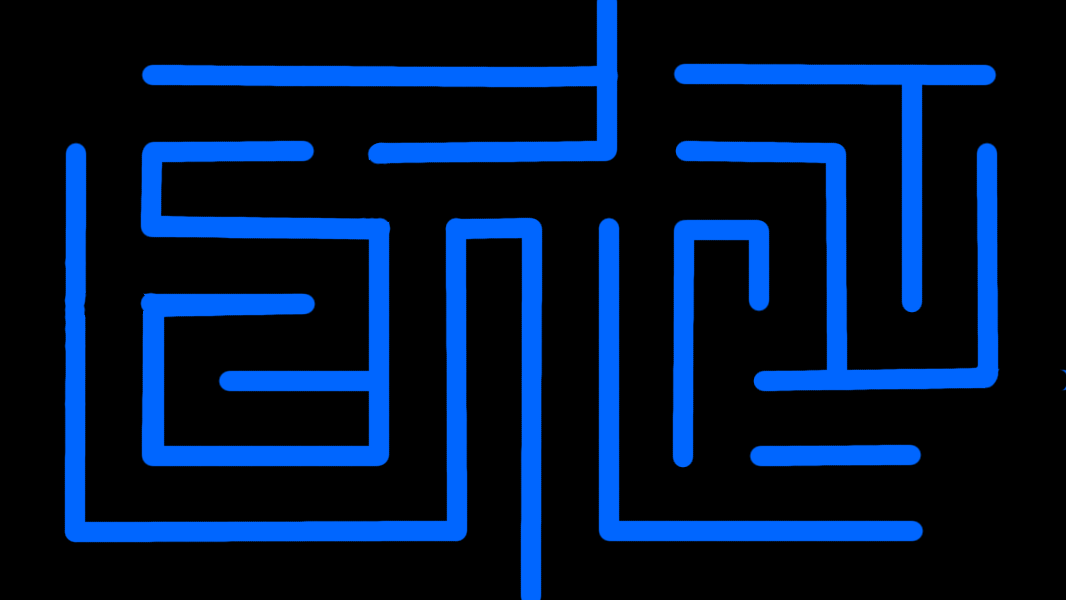
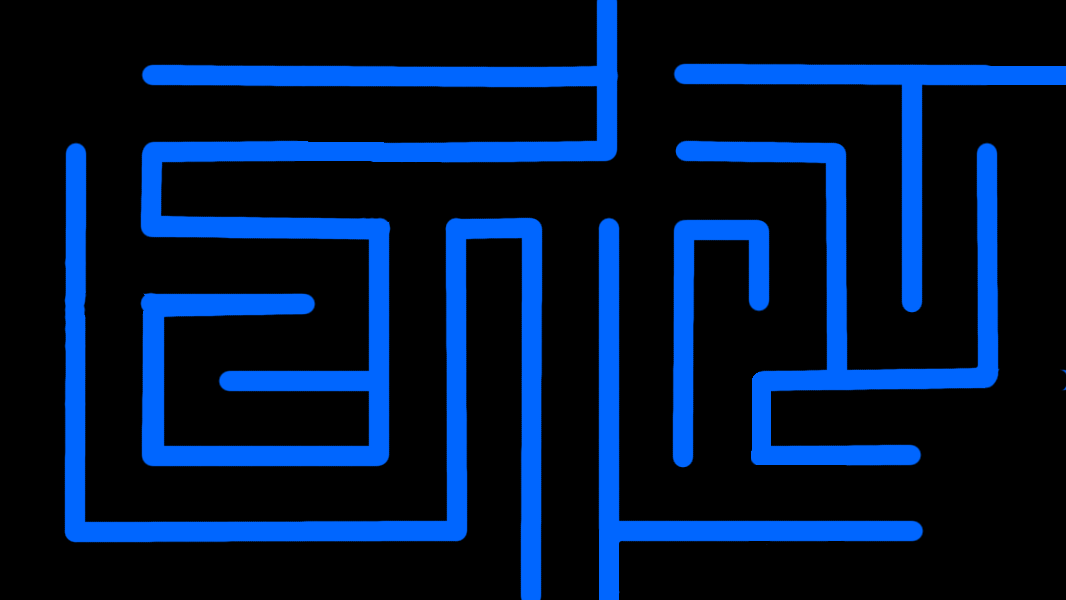
Done..!

diff --git a/Scripts/scenes/scene_StageOne.js b/Scripts/scenes/scene_StageOne.js
@@ -17,6 +17,9 @@ var scenes;
         __extends(StageOne, _super);
         function StageOne(assetManager) {
             var _this = _super.call(this, assetManager) || this;
+            _this.backgroundMusic = createjs.Sound.play("play_music");
+            _this.backgroundMusic.loop = -1; // Looping forever
+            _this.backgroundMusic.volume = 0.3;
             _this.Start();
             return _this;
         }
@@ -28,13 +31,13 @@ var scenes;
         };
         StageOne.prototype.Start = function () {
             //config.Gravity.gravityFactor = -1;
-            objects.Game.isDebug = true;
+            objects.Game.isDebug = false;
             this.isPaused = false;
             this.gameSceneryStaticObjects = new Array();
             this.gameSceneryDynamicObjects = new Array();
             this.enemies = new Array();
             objects.Game.keyboard = new managers.Keyboard();
-            var ghost = new objects.Enemy(this.assetManager, "ghost", 980, 590);
+            var ghost = new objects.Enemy(this.assetManager, "ghost", 980, 550);
             ghost.y = ghost.y - ghost.height;
             this.enemies[0] = ghost;
             console.log("GAME SCENE(S)...");
@@ -47,7 +50,7 @@ var scenes;
             this.txtButton.x = 910;
             this.txtButton.y = 565;
             this.player = new objects.Player(this.assetManager);
-            this.player.boxCollider = new objects.BoxCollider(0, 0, this.player.x, this.player.y, this.player.width - 10, this.player.height - 10);
+            this.player.boxCollider = new objects.BoxCollider(0, 0, this.player.x, this.player.y, this.player.width - 7, this.player.height - 10);
             this.Main();
         };
         StageOne.prototype.CreateFunctionCheck = function (gameObject) {
@@ -100,7 +103,7 @@ var scenes;
                 enemy.Update();
                 _this.player.isDead = managers.Collision.CheckDistance(_this.player, enemy);
                 if (_this.player.isDead) {
-                    //   this.backgroundMusic.stop();
+                    _this.backgroundMusic.stop();
                     objects.Game.currentScene = config.Scene.FINISH;
                 }
             });
@@ -118,28 +121,11 @@ var scenes;
             this.timeRemaining.fn_TimerTicker(objects.Game.stageTimer);
             //this.addChild(this.background);
             this.addChild(this.background_main);
-            //   this.addChild(this.timeRemaining);
-            //   this.addChild(this.titleShadow);
-            //   this.addChild(this.title);
-            //   this.addChild(this.backButton);
-            //   this.addChild(this.txtButton);
             this.CreateScenery();
             this.addChild(this.player);
             this.enemies.forEach(function (ghost) {
                 _this.addChild(ghost);
             });
-            //  this.addChild(this.background_shadow);
-            //create the empties gameobjects to be the stage boundaries
-            //   this.backButton.on("click", this.fn_ButtonClick);
-            //   var callback = () : void => {
-            //       this.removeChild(this.title);
-            //       this.removeChild(this.titleShadow);
-            //   }
-            //    this.StartCountdown(3, callback);
-            //  this.addChild(this.pauseButton);
-            //   this.addChild(this.pauseTxtButton);
-            //    this.backButton.on("click", this.fn_ButtonClick);
-            //   this.pauseButton.on("click", ()=>{this.isPaused = !this.isPaused; this.fn_pauseButtonClick;});//pause
         };
         StageOne.prototype.CreateScenery = function () {
             //Boundary
@@ -194,7 +180,7 @@ var scenes;
             this.gameSceneryStaticObjects[8] = wall_11;
             wall_11.x = 681;
             wall_11.y = 65;
-            var wall_21 = new objects.EmptyGameObject(this.assetManager, "wall_21", 160, 21);
+            var wall_21 = new objects.EmptyGameObject(this.assetManager, "wall_21", 260, 21);
             this.addChild(wall_21);
             this.gameSceneryStaticObjects[6] = wall_21;
             wall_21.x = 145;
@@ -290,11 +276,11 @@ var scenes;
             this.gameSceneryStaticObjects[24] = stand_5;
             stand_5.x = 520;
             stand_5.y = 220;
-            var stand_6 = new objects.EmptyGameObject(this.assetManager, "stand_6", 21, 320);
+            var stand_6 = new objects.EmptyGameObject(this.assetManager, "stand_6", 18, 380);
             this.addChild(stand_6);
             this.gameSceneryStaticObjects[25] = stand_6;
             stand_6.x = 600;
-            stand_6.y = 220;
+            stand_6.y = 221;
             var stand_7 = new objects.EmptyGameObject(this.assetManager, "stand_7", 21, 240);
             this.addChild(stand_7);
             this.gameSceneryStaticObjects[26] = stand_7;

diff --git a/Scripts/scenes/scene_StageOne.ts b/Scripts/scenes/scene_StageOne.ts
@@ -11,6 +11,7 @@ module scenes
         private pauseButton: objects.Button;
         private txtButton: objects.Label;
 
+        private backgroundMusic:createjs.AbstractSoundInstance;
         private enemies:objects.Enemy[];        
         
         //private ghost: objects.Enemy;
@@ -30,6 +31,9 @@ module scenes
         constructor(assetManager: createjs.LoadQueue)
         {
             super(assetManager);
+            this.backgroundMusic = createjs.Sound.play("play_music");
+            this.backgroundMusic.loop = -1; // Looping forever
+            this.backgroundMusic.volume = 0.3;
             this.Start();
         }
 
@@ -48,7 +52,7 @@ module scenes
             
             //config.Gravity.gravityFactor = -1;
             
-            objects.Game.isDebug = true;
+            objects.Game.isDebug = false;
             this.isPaused = false;
             this.gameSceneryStaticObjects = new Array<objects.EmptyGameObject>();
             this.gameSceneryDynamicObjects = new Array<objects.DynamicObject>();
@@ -56,7 +60,7 @@ module scenes
             this.enemies = new Array<objects.Enemy>();
 
             objects.Game.keyboard = new managers.Keyboard();
-            var ghost = new objects.Enemy(this.assetManager, "ghost", 980, 590);
+            var ghost = new objects.Enemy(this.assetManager, "ghost", 980, 550);
             ghost.y = ghost.y - ghost.height;
             this.enemies[0] = ghost;
 
@@ -77,7 +81,7 @@ module scenes
             this.player = new objects.Player(this.assetManager);            
             this.player.boxCollider = new objects.BoxCollider(0, 0, this.player.x, 
                 this.player.y, 
-                this.player.width-10, this.player.height-10);
+                this.player.width-7, this.player.height-10);
                 
             this.Main();
 
@@ -143,7 +147,7 @@ module scenes
                 this.player.isDead = managers.Collision.CheckDistance(this.player, enemy);
 
                 if(this.player.isDead) {
-                 //   this.backgroundMusic.stop();
+                    this.backgroundMusic.stop();
                     objects.Game.currentScene = config.Scene.FINISH;
                 }
             });   
@@ -166,13 +170,7 @@ module scenes
             //this.addChild(this.background);
             this.addChild(this.background_main);
             
-         //   this.addChild(this.timeRemaining);
-            
-         //   this.addChild(this.titleShadow);
-         //   this.addChild(this.title);
-            
-         //   this.addChild(this.backButton);
-         //   this.addChild(this.txtButton);
+       
             
             this.CreateScenery();
             this.addChild(this.player);
@@ -180,23 +178,6 @@ module scenes
                this.addChild(ghost);  
            });
            
-          //  this.addChild(this.background_shadow);
-            
-            //create the empties gameobjects to be the stage boundaries
-
-         //   this.backButton.on("click", this.fn_ButtonClick);
-
-         //   var callback = () : void => {
-         //       this.removeChild(this.title);
-         //       this.removeChild(this.titleShadow);
-         //   }
-        //    this.StartCountdown(3, callback);
-
-          //  this.addChild(this.pauseButton);
-         //   this.addChild(this.pauseTxtButton);
-            
-        //    this.backButton.on("click", this.fn_ButtonClick);
-         //   this.pauseButton.on("click", ()=>{this.isPaused = !this.isPaused; this.fn_pauseButtonClick;});//pause
         
         }
         
@@ -273,7 +254,7 @@ module scenes
             wall_11.x = 681;
             wall_11.y = 65;
 
-            var wall_21 = new objects.EmptyGameObject(this.assetManager, "wall_21", 160, 21); 
+            var wall_21 = new objects.EmptyGameObject(this.assetManager, "wall_21", 260, 21); 
             this.addChild(wall_21);
             this.gameSceneryStaticObjects[6] = wall_21;
             wall_21.x = 145;
@@ -388,11 +369,11 @@ module scenes
             stand_5.x = 520;
             stand_5.y = 220;
 
-            var stand_6 = new objects.EmptyGameObject(this.assetManager, "stand_6", 21,320); 
+            var stand_6 = new objects.EmptyGameObject(this.assetManager, "stand_6", 18,380); 
             this.addChild(stand_6);
             this.gameSceneryStaticObjects[25] = stand_6;
             stand_6.x = 600;
-            stand_6.y = 220;
+            stand_6.y = 221;
 
             var stand_7 = new objects.EmptyGameObject(this.assetManager, "stand_7", 21,240); 
             this.addChild(stand_7);

diff --git a/Scripts/scenes/endScene.ts b/Scripts/scenes/endScene.ts
@@ -11,11 +11,17 @@ module scenes
         private txtButton: objects.Label;
         private buttonBlack: objects.Image;
         private blackCover: objects.Image;
+
+        private backgroundMusic:createjs.AbstractSoundInstance;
+        private endMusic:createjs.AbstractSoundInstance;
        
 
         constructor(assetManager: createjs.LoadQueue)
         {
             super(assetManager);
+           // this.backgroundMusic = createjs.Sound.play("play_music");
+            this.endMusic = createjs.Sound.play("explode");
+            this.endMusic.volume = 0.3;
             this.Start();
         }
 
@@ -37,7 +43,7 @@ module scenes
             this.backButton.scaleX = 0.75;
           //  this.buttonBlack = new objects.Image(this.assetManager, "buttonBlack",1066 * 0.5, 600 * 0.9, true);  
           //  this.buttonBlack.scaleX = 1.2;
-            this.label = new objects.Label("Game Over", "bold 96px", "Crackman", "#00adad", 1066 * 0.5, 600 * 0.48, true);
+            this.label = new objects.Label("WiNNer..!", "bold 96px", "Crackman", "#00adad", 1066 * 0.5, 600 * 0.48, true);
             this.label2 = new objects.Label("After eating Pac-Dots, Pacman realised what heaven is...", "28px", "Crackman", "#ffff00", 1066 * 0.5, 600 * 0.6, true);
             this.label3 = new objects.Label("Then he went in search for more pac-dots...", "28px", "Crackman", "#dfdf00", 1066 * 0.5, 600 * 0.65, true);
             this.label4 = new objects.Label("and he met Toru Iwatani of Namco and Rest is HISTORY", "28px", "Crackman", "#bfbf00", 1066 * 0.5, 600 * 0.7, true);

diff --git a/Scripts/scenes/endScene.js b/Scripts/scenes/endScene.js
@@ -17,6 +17,9 @@ var scenes;
         __extends(EndScene, _super);
         function EndScene(assetManager) {
             var _this = _super.call(this, assetManager) || this;
+            // this.backgroundMusic = createjs.Sound.play("play_music");
+            _this.endMusic = createjs.Sound.play("explode");
+            _this.endMusic.volume = 0.3;
             _this.Start();
             return _this;
         }
@@ -34,7 +37,7 @@ var scenes;
             this.backButton.scaleX = 0.75;
             //  this.buttonBlack = new objects.Image(this.assetManager, "buttonBlack",1066 * 0.5, 600 * 0.9, true);  
             //  this.buttonBlack.scaleX = 1.2;
-            this.label = new objects.Label("Game Over", "bold 96px", "Crackman", "#00adad", 1066 * 0.5, 600 * 0.48, true);
+            this.label = new objects.Label("WiNNer..!", "bold 96px", "Crackman", "#00adad", 1066 * 0.5, 600 * 0.48, true);
             this.label2 = new objects.Label("After eating Pac-Dots, Pacman realised what heaven is...", "28px", "Crackman", "#ffff00", 1066 * 0.5, 600 * 0.6, true);
             this.label3 = new objects.Label("Then he went in search for more pac-dots...", "28px", "Crackman", "#dfdf00", 1066 * 0.5, 600 * 0.65, true);
             this.label4 = new objects.Label("and he met Toru Iwatani of Namco and Rest is HISTORY", "28px", "Crackman", "#bfbf00", 1066 * 0.5, 600 * 0.7, true);

diff --git a/Scripts/core/game.js b/Scripts/core/game.js
@@ -27,7 +27,9 @@
         { id: "empty", src: "../Assets/Background/empty.png" },
         { id: "crate", src: "../Assets/Sprites/Objects/crate.png" },
         { id: "opened_desk", src: "../Assets/Sprites/Objects/open_desk.png" },
-        { id: "closed_desk", src: "../Assets/Sprites/Objects/closed_desk.png" }
+        { id: "closed_desk", src: "../Assets/Sprites/Objects/closed_desk.png" },
+        { id: "explode", src: "./Assets/Sound/pacman_eatghost.wav" },
+        { id: "play_music", src: "./Assets/Sound/pacman_beginning.wav" }
     ];
     function Init() {
         console.log("Initialization start");

diff --git a/Scripts/core/game.ts b/Scripts/core/game.ts
@@ -30,7 +30,9 @@ console.log('code ran');
         { id: "empty", src: "../Assets/Background/empty.png" },
         { id: "crate", src: "../Assets/Sprites/Objects/crate.png" },
         { id: "opened_desk", src: "../Assets/Sprites/Objects/open_desk.png" },
-        { id: "closed_desk", src: "../Assets/Sprites/Objects/closed_desk.png" }
+        { id: "closed_desk", src: "../Assets/Sprites/Objects/closed_desk.png" },
+        {id: "explode", src:"./Assets/Sound/pacman_eatghost.wav"},
+        {id: "play_music", src:"./Assets/Sound/pacman_beginning.wav"}
 
     ];
     function Init():void {

diff --git a/Scripts/objects/menuObjects/enemy.js b/Scripts/objects/menuObjects/enemy.js
@@ -32,14 +32,8 @@ var objects;
         };
         Enemy.prototype.Update = function () {
             _super.prototype.Update.call(this);
-            //   this.Move();
         };
         Enemy.prototype.Reset = function () { };
-        Enemy.prototype.Move = function () {
-            this.x -= 3;
-            if (this.x < 200)
-                this.x = 800;
-        };
         return Enemy;
     }(objects.GameObject));
     objects.Enemy = Enemy;

diff --git a/Scripts/objects/menuObjects/enemy.ts b/Scripts/objects/menuObjects/enemy.ts
@@ -19,14 +19,10 @@ module objects {
 
         public Update():void {
             super.Update();
-         //   this.Move();
+       
         }        
         
         public Reset():void {}
-        public Move():void {
-            this.x -= 3;            
-            if(this.x < 200)
-                this.x = 800;
-        }
+        
     }
 }
